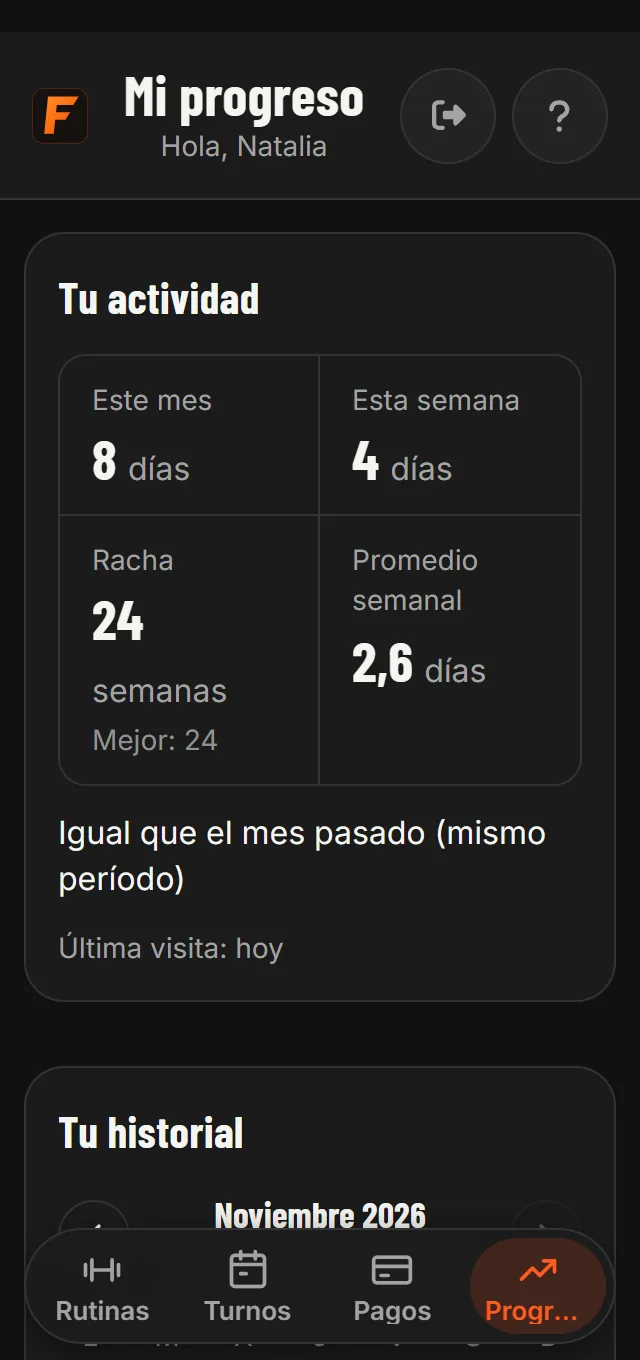
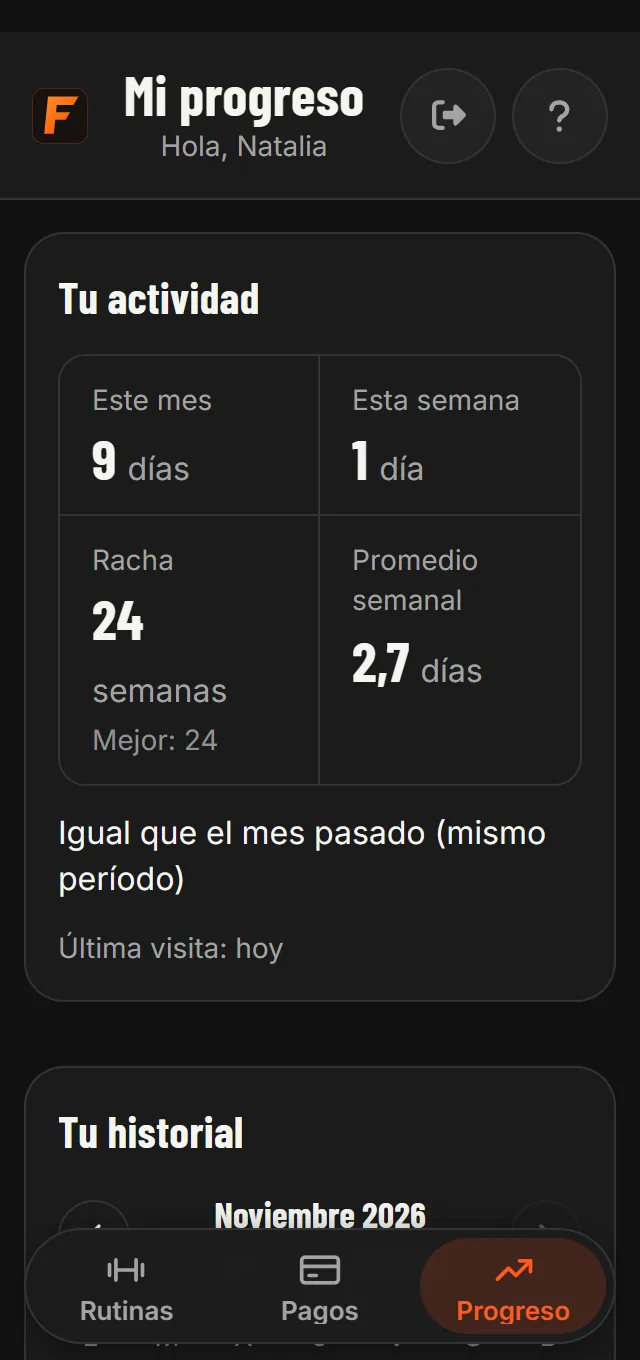
Gráficos parejos, capturas sin Turnos y animación de 3 pasos fluida
- Las cuatro tarjetas de gráficos miden lo mismo (recaudación, cuotas y
  altas y bajas con el gráfico más alto, al nivel de horarios pico).
- Portada, gráficos y "Su asistencia" recapturados con el gimnasio de
  muestra sin el módulo de Turnos.
- "Una rutina en 3 pasos": la sección ya no queda fija al scrollear; las
  tarjetas entran una tras otra en un segundo, una sola vez.

diff --git a/index.html b/index.html
@@ -411,7 +411,7 @@
         <article class="card card--row span-4">
           <h3>Su asistencia</h3>
           <p>Los días que vino este mes y esta semana, su racha y el calendario del mes.</p>
-          <div class="panel"><img class="frame__img" src="assets/app/alumno-asistencia.webp" alt="Tu actividad en el celular de Natalia: 8 días este mes, 4 esta semana, racha de 24 semanas y 2,6 días por semana, con el calendario de noviembre debajo" width="640" height="1360" loading="lazy" data-source="client" data-subject="Fortius, asistencia del alumno"></div>
+          <div class="panel"><img class="frame__img" src="assets/app/alumno-asistencia.webp" alt="Tu actividad en el celular de Natalia: 9 días este mes, 1 esta semana, racha de 24 semanas y 2,7 días por semana, con el calendario de noviembre debajo" width="640" height="1360" loading="lazy" data-source="client" data-subject="Fortius, asistencia del alumno"></div>
         </article>
         <article class="card card--row span-4">
           <h3>Su progreso</h3>
@@ -453,16 +453,16 @@
       </div>
       <div class="grid" style="margin-top: var(--s-7)">
         <article class="card card--grafico span-6">
-          <div class="panel"><img class="frame__img" src="assets/app/grafico-recaudacion.webp" alt="Gráfico de barras de la recaudación por mes, de mayo a noviembre: $6.903.000 en 185 pagos en los últimos 12 meses" width="912" height="724" loading="lazy" data-source="client" data-subject="Fortius, gráfico de recaudación"></div>
+          <div class="panel"><img class="frame__img" src="assets/app/grafico-recaudacion.webp" alt="Gráfico de barras de la recaudación por mes, de mayo a noviembre: $7.050.500 en 177 pagos en los últimos 12 meses" width="912" height="861" loading="lazy" data-source="client" data-subject="Fortius, gráfico de recaudación"></div>
         </article>
         <article class="card card--grafico span-6">
-          <div class="panel"><img class="frame__img" src="assets/app/grafico-pico.webp" alt="Gráfico de visitas por día de la semana: jueves y sábado son los días con más gente" width="912" height="862" loading="lazy" data-source="client" data-subject="Fortius, gráfico de días y horarios pico"></div>
+          <div class="panel"><img class="frame__img" src="assets/app/grafico-pico.webp" alt="Gráfico de visitas por día de la semana: lunes y martes son los días con más gente" width="912" height="862" loading="lazy" data-source="client" data-subject="Fortius, gráfico de días y horarios pico"></div>
         </article>
         <article class="card card--grafico span-6">
-          <div class="panel"><img class="frame__img" src="assets/app/grafico-cuotas.webp" alt="Gráfico de anillo con el estado de las cuotas: al día, por vencer en 7 días, vencidas y sin pagos registrados" width="912" height="725" loading="lazy" data-source="client" data-subject="Fortius, gráfico de estado de cuotas"></div>
+          <div class="panel"><img class="frame__img" src="assets/app/grafico-cuotas.webp" alt="Gráfico de anillo con el estado de las cuotas: al día, por vencer en 7 días, vencidas y sin pagos registrados" width="912" height="861" loading="lazy" data-source="client" data-subject="Fortius, gráfico de estado de cuotas"></div>
         </article>
         <article class="card card--grafico span-6">
-          <div class="panel"><img class="frame__img" src="assets/app/grafico-altas.webp" alt="Gráfico de altas y bajas a 30, 60 y 90 días: 8, 9 y 11 altas contra 3, 4 y 6 bajas" width="912" height="724" loading="lazy" data-source="client" data-subject="Fortius, gráfico de altas y bajas"></div>
+          <div class="panel"><img class="frame__img" src="assets/app/grafico-altas.webp" alt="Gráfico de altas y bajas a 30, 60 y 90 días: 8, 9 y 11 altas contra 3, 4 y 6 bajas" width="912" height="862" loading="lazy" data-source="client" data-subject="Fortius, gráfico de altas y bajas"></div>
         </article>
       </div>
     </div>

diff --git a/assets/motion/pasos.js b/assets/motion/pasos.js
@@ -1,8 +1,9 @@
 /*
-  "Una rutina en 3 pasos" (#rutinas): en PC la sección queda fija mientras se scrollea y los
-  pasos 2 y 3 entran uno tras otro. Solo se anima transform (y) y opacity.
-  Sin animación (la grilla queda como está): celulares y tablets (< 1024px), prefers-reduced-motion,
-  <html data-motion="off">, o si GSAP no cargó.
+  "Una rutina en 3 pasos" (#rutinas): al entrar la sección en pantalla, las tres tarjetas suben y
+  aparecen una tras otra, y la captura de cada una se asienta con un leve zoom. Se reproduce una sola
+  vez y no frena el scroll (antes la sección quedaba fija y el scroll parecía trabado).
+  Solo se anima transform y opacity. Sin animación (la grilla queda como está):
+  prefers-reduced-motion, <html data-motion="off">, o si GSAP no cargó.
 */
 (() => {
   const gsap = window.gsap, ST = window.ScrollTrigger;
@@ -11,31 +12,26 @@
   gsap.registerPlugin(ST);
 
   const cards = section.querySelectorAll('.grid > .card');
-  if (cards.length < 3) return;
-  const nav = () => parseFloat(getComputedStyle(document.documentElement).getPropertyValue('--nav')) || 72;
+  if (!cards.length) return;
+  const imgs = section.querySelectorAll('.grid > .card .frame__img');
 
-  gsap.matchMedia().add('(min-width: 1024px) and (min-height: 700px) and (prefers-reduced-motion: no-preference)', () => {
+  gsap.matchMedia().add('(prefers-reduced-motion: no-preference)', () => {
+    gsap.set(cards, { y: 48, opacity: 0 });
+    gsap.set(imgs, { scale: 1.06, transformOrigin: '50% 0%' });
     const tl = gsap.timeline({
-      defaults: { ease: 'power2.out', duration: 1 },
-      scrollTrigger: {
-        trigger: section,
-        start: () => `top top+=${nav()}`,
-        end: '+=140%',
-        pin: true,
-        scrub: 0.6,
-        anticipatePin: 1,
-        invalidateOnRefresh: true,
-      },
+      paused: true,
+      defaults: { duration: 0.9, ease: 'power3.out' },
     });
-    // fromTo con el final explícito: con invalidateOnRefresh un .from() volvería a leer el "final"
-    // mientras la tarjeta está oculta y quedaría en opacidad 0
-    const hidden = { y: 64, opacity: 0 }, shown = { y: 0, opacity: 1 };
-    tl.fromTo(cards[1], hidden, shown)
-      .fromTo(cards[2], hidden, { ...shown }, '+=0.25')
-      .to({}, { duration: 0.4 }); // un respiro con los tres pasos a la vista antes de soltar
-    // matchMedia revierte todo (estilos inline y pin) al salir de la condición
-  });
+    tl.to(cards, { y: 0, opacity: 1, stagger: 0.14, clearProps: 'transform,opacity' })
+      .to(imgs, { scale: 1, duration: 1.2, stagger: 0.14, clearProps: 'transform' }, 0.1);
 
-  // las imágenes son lazy: recalcular cuando terminan de cargar para que el pin mida bien
-  window.addEventListener('load', () => ST.refresh());
+    ST.create({
+      trigger: section.querySelector('.grid'),
+      start: 'top 85%',
+      once: true,
+      onEnter: () => tl.play(),
+    });
+    // si al cargar la página ya se pasó la sección, ScrollTrigger llama a onEnter enseguida.
+    // matchMedia revierte los estilos inline al salir de la condición
+  });
 })();
